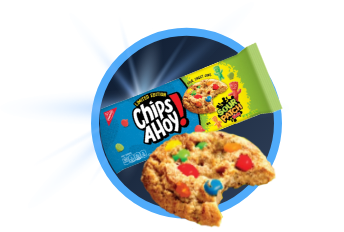
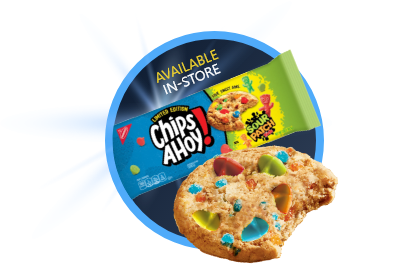
Update image for well done screen

Changed region(s): [[0.2616, 0.0905, 0.8721, 0.9957]]

diff --git a/www/welldone.html b/www/welldone.html
@@ -51,7 +51,7 @@
                         Buy a pack of Limited Edition cookies
                     </p>
                     <div class="flex-center">
-                        <img src="img/group-welldone.png">
+                        <img  style="max-width: 325px"src="img/group-welldone.png">
                     </div>
                     <div class="camera-block">
                         <h3 class="deep-yellow sub-title">LIKE THIS</h3>
